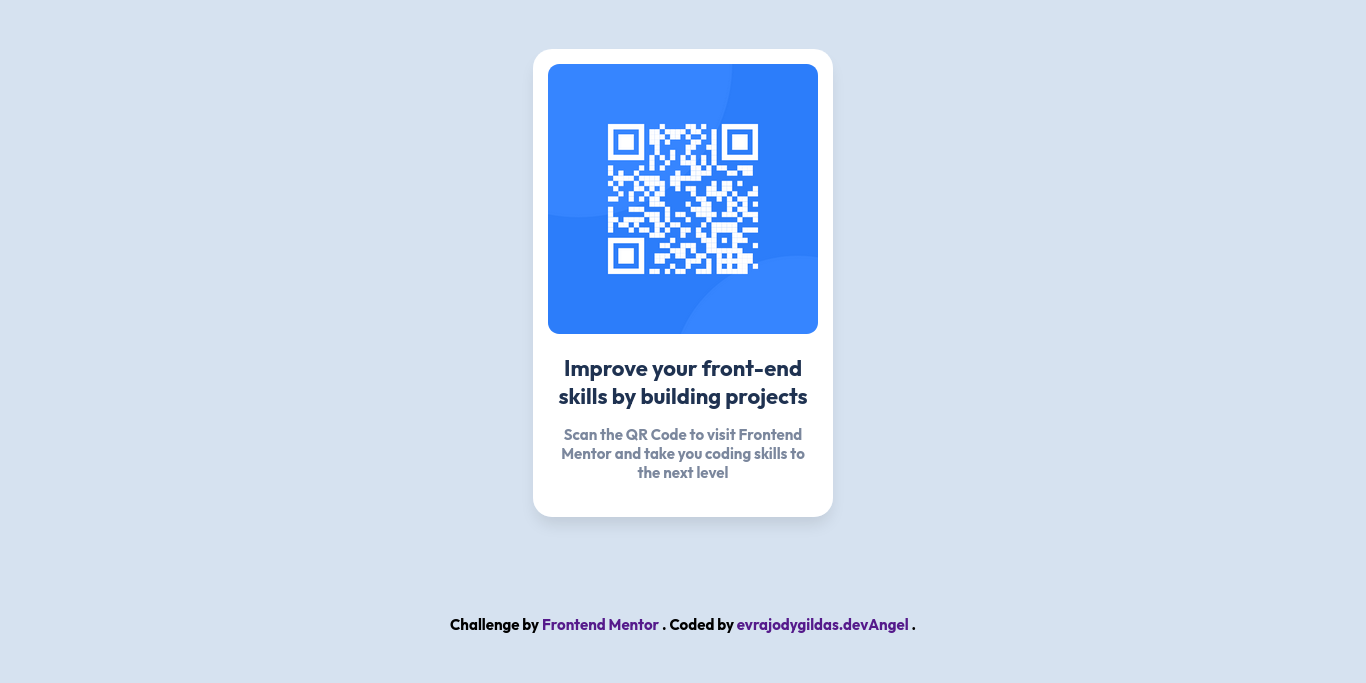
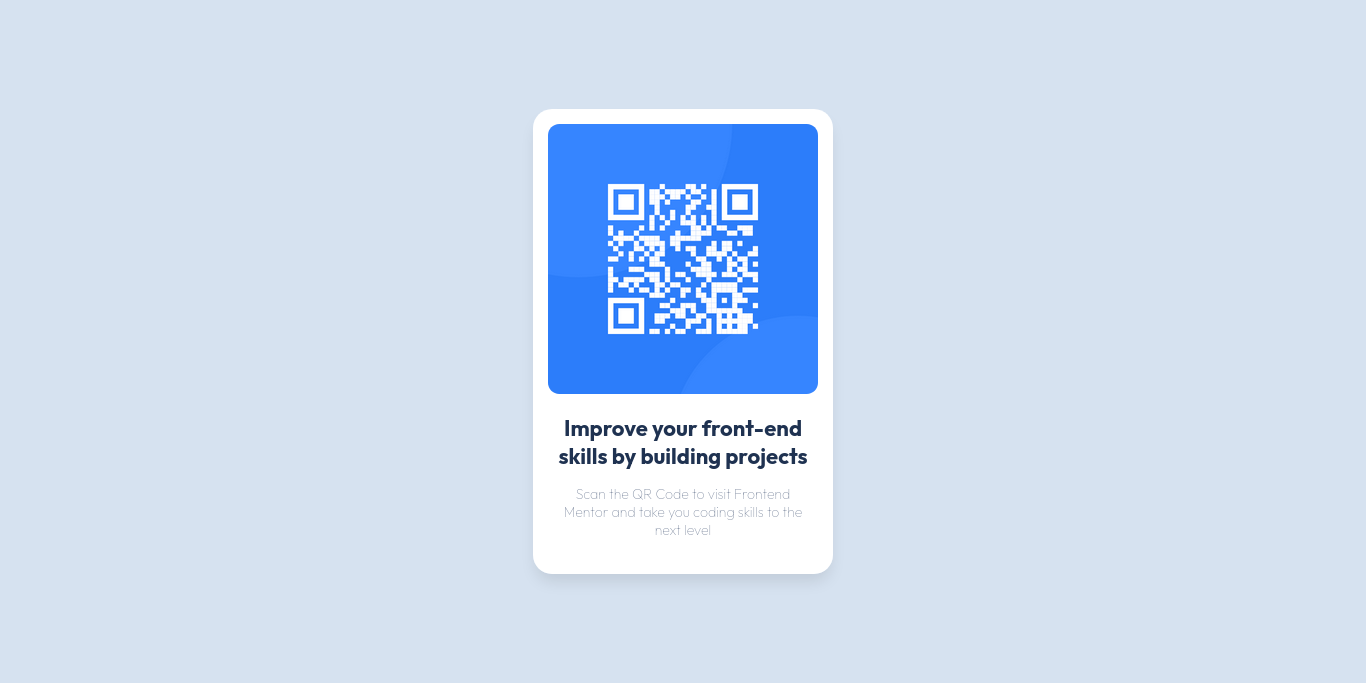
Updating Readme

Changed region(s): [[0.369, 0.0615, 0.6149, 0.8609], [0.3382, 0.8917, 0.6764, 0.9224]]

diff --git a/assets/css/qr-code-style.css b/assets/css/qr-code-style.css
@@ -1,4 +1,4 @@
-@import url('https://fonts.googleapis.com/css2?family=Outfit:wght@700;800&display=swap');
+@import url('https://fonts.googleapis.com/css2?family=Outfit:wght@100;700;800&display=swap');
 
 :root {
   --white: hsl(0, 0%, 100%);
@@ -54,15 +54,16 @@ body {
   margin: 20px 0;
 }
 
-.qr-code-text-content .qr-code-text {
+.qr-code-text {
   margin: 0 8px;
   font-weight: 700;
   font-size: 22px;
   color: var(--dark-blue);
 }
 
-.qr-code-text-content .qr-code-subtext {
+.qr-code-subtext {
   margin: 15px 5px;
+  font-size: 14px;
   color: var(--grayish-blue);
 }
 

diff --git a/index.html b/index.html
@@ -20,11 +20,10 @@
          </div>
       </div>
 
-        
-      <div class="attribution">
+      <!-- <div class="attribution">
         Challenge by <a href="https://www.frontendmentor.io?ref=challenge" target="_blank">Frontend Mentor </a>. 
         Coded by <a href="#"> evrajodygildas.devAngel </a>.
-      </div>
+      </div> -->
    </div>
 
   
